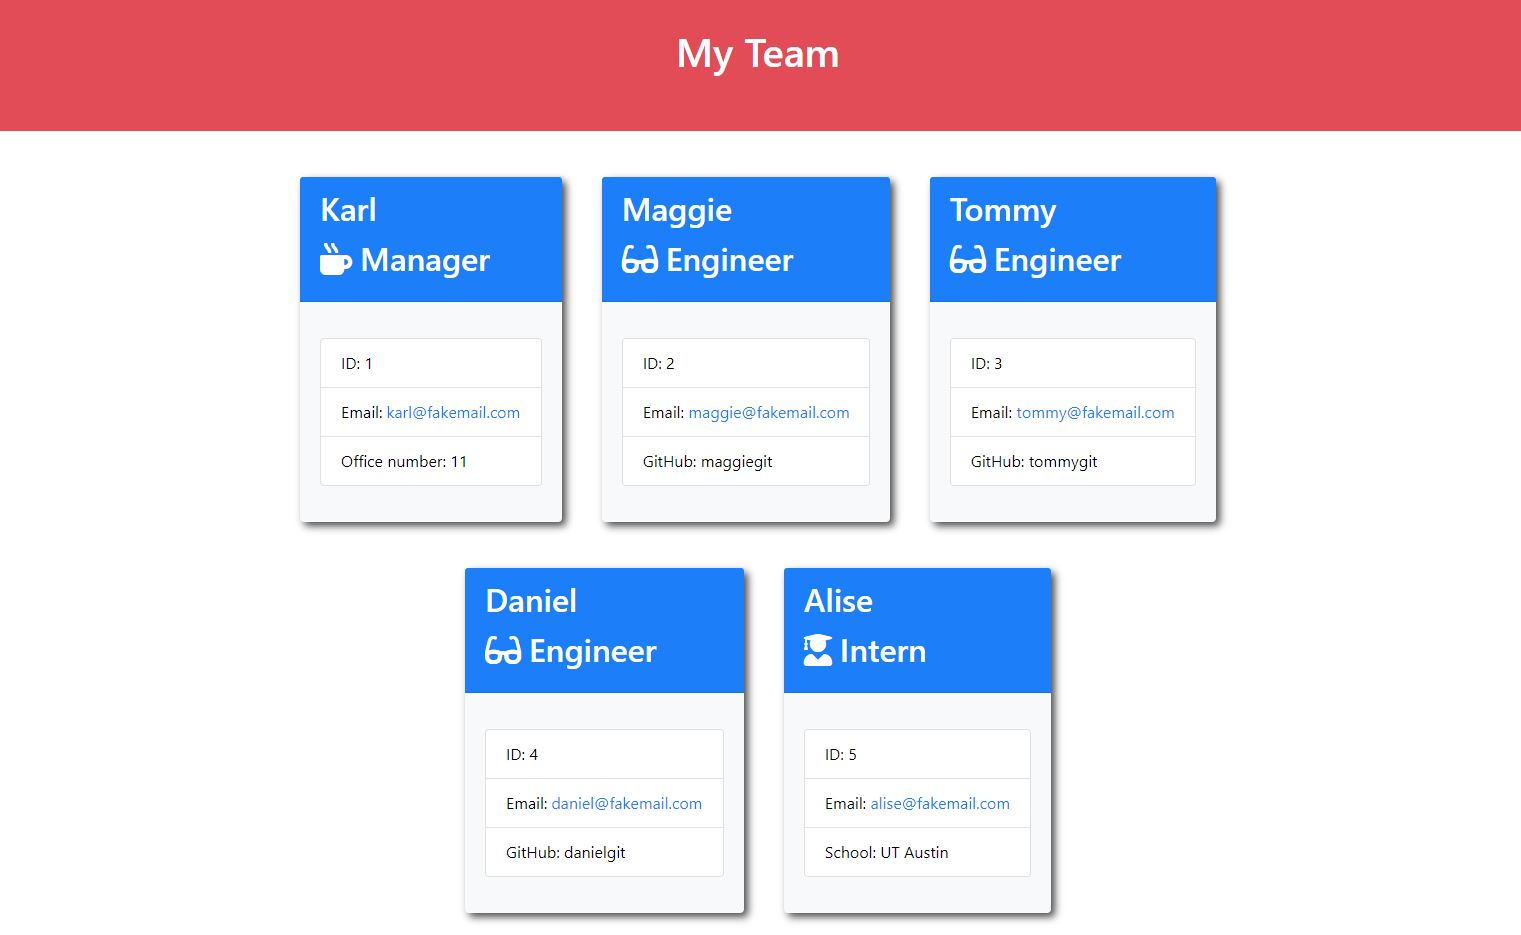
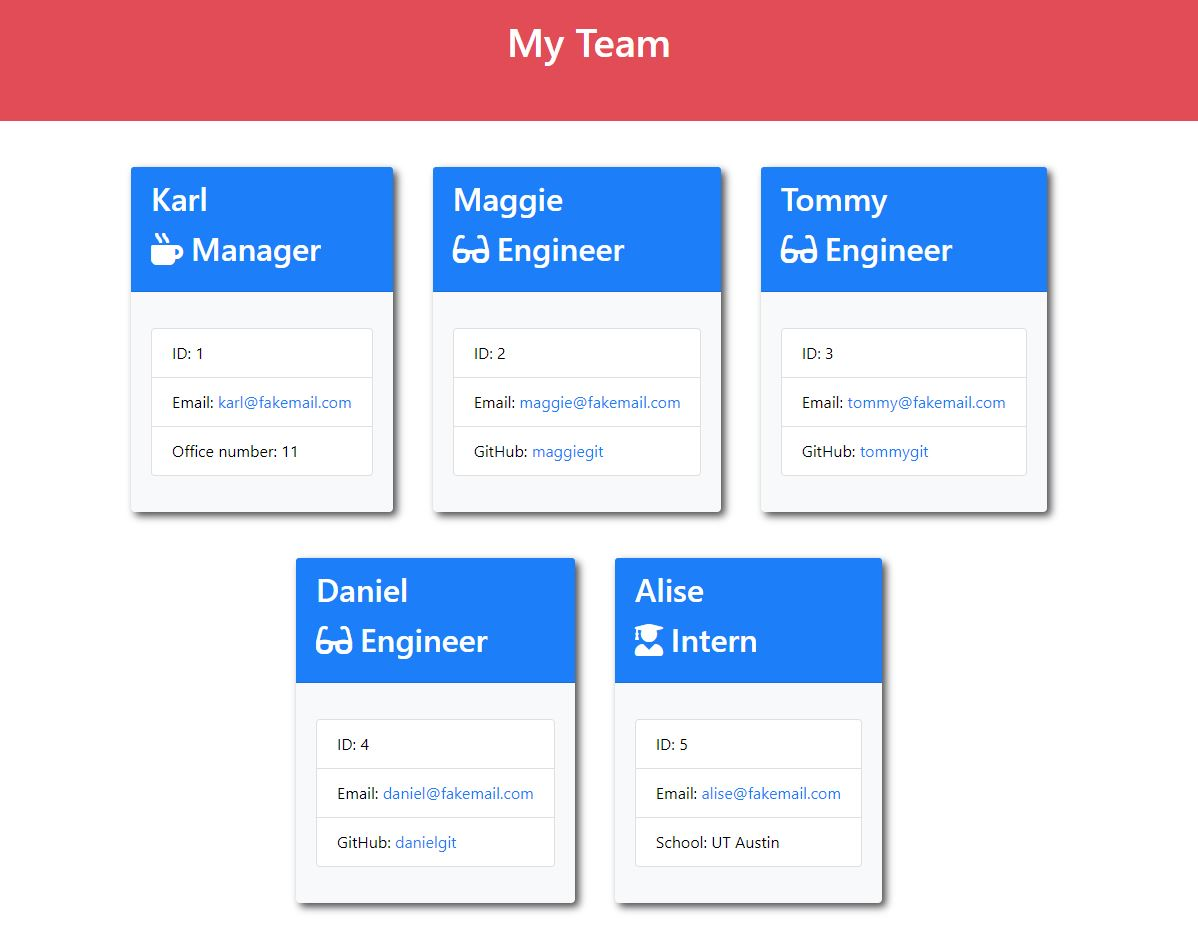
fixed bug with the link to github account

diff --git a/dist/index.html b/dist/index.html
@@ -49,7 +49,7 @@
                     <ul class="list-group card-text my-3">
                         <li class="list-group-item text-nowrap">ID: 2</li>
                         <li class="list-group-item text-nowrap">Email: <a href="mailto:maggie@fakemail.com">maggie@fakemail.com</a></li>
-                        <li class="list-group-item text-nowrap">GitHub: maggiegit</li>
+                        <li class="list-group-item text-nowrap">GitHub: <a href="https://github.com/maggiegit" target="_blank">maggiegit</a></li>
                     </ul>
                 </div>
             </div>    
@@ -63,7 +63,7 @@
                     <ul class="list-group card-text my-3">
                         <li class="list-group-item text-nowrap">ID: 3</li>
                         <li class="list-group-item text-nowrap">Email: <a href="mailto:tommy@fakemail.com">tommy@fakemail.com</a></li>
-                        <li class="list-group-item text-nowrap">GitHub: tommygit</li>
+                        <li class="list-group-item text-nowrap">GitHub: <a href="https://github.com/tommygit" target="_blank">tommygit</a></li>
                     </ul>
                 </div>
             </div>    
@@ -77,7 +77,7 @@
                     <ul class="list-group card-text my-3">
                         <li class="list-group-item text-nowrap">ID: 4</li>
                         <li class="list-group-item text-nowrap">Email: <a href="mailto:daniel@fakemail.com">daniel@fakemail.com</a></li>
-                        <li class="list-group-item text-nowrap">GitHub: danielgit</li>
+                        <li class="list-group-item text-nowrap">GitHub: <a href="https://github.com/danielgit" target="_blank">danielgit</a></li>
                     </ul>
                 </div>
             </div>    

diff --git a/src/page-template.js b/src/page-template.js
@@ -36,7 +36,7 @@ const generateTemMembers = teamData =>{
                     <ul class="list-group card-text my-3">
                         <li class="list-group-item text-nowrap">ID: ${item.getId()}</li>
                         <li class="list-group-item text-nowrap">Email: <a href="mailto:${item.getEmail()}">${item.getEmail()}</a></li>
-                        <li class="list-group-item text-nowrap">GitHub: ${item.getGitHub()}</li>
+                        <li class="list-group-item text-nowrap">GitHub: <a href="https://github.com/${item.getGitHub()}" target="_blank">${item.getGitHub()}</a></li>
                     </ul>
                 </div>
             </div>    

diff --git a/README.md b/README.md
@@ -21,6 +21,10 @@ https://drive.google.com/file/d/1bIE-hkkHEhDtsU0iN4ioFhjf9N6y7U5Q/view?usp=shari
 
 You can find the repository here: https://github.com/evkonradi/team-profile-generator.
 
+# Example of the HTML page generated:
+
+https://evkonradi.github.io/team-profile-generator/dist/index.html
+
 # Page preview
 
 This is the preview of the initial page:
